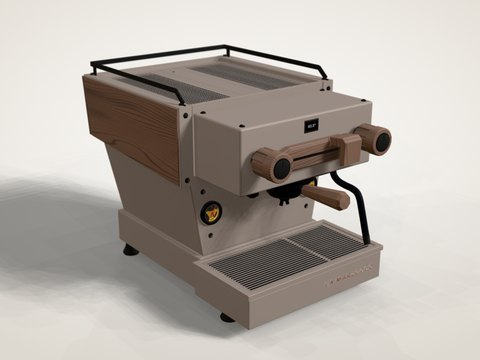
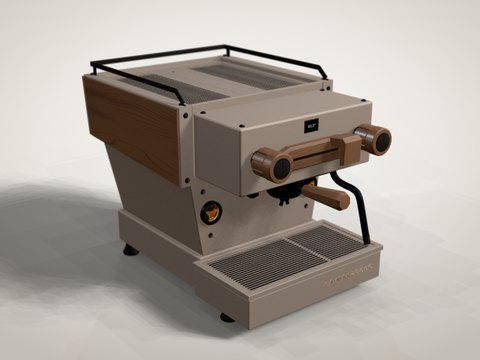
Grafik-Update für alle Geräte live: fotorealistisches Studio als Standard
Das in der Vorschau (?gfx=2) freigegebene Grafik-Update ist jetzt die
Standarddarstellung für alle Maschinen und Mühlen; ?gfx=1 zeigt zum
Vergleich die frühere Darstellung. Vorschaubilder aller 14 Geräte mit
der neuen Grafik neu gerendert, README ergänzt.

Claude-Session: https://claude.ai/code/session_01XVE81muw7HYcqaEMYwBuXM

diff --git a/js/gfx.js b/js/gfx.js
@@ -1,5 +1,5 @@
 // ---------------------------------------------------------------------------
-// Grafik-Stufe: "2" = fotorealistisches Studio-Update (Vorschau über ?gfx=2)
+// Grafik-Stufe: fotorealistisches Studio-Update (Standard; ?gfx=1 zeigt die frühere Darstellung)
 //
 // Bündelt alle Einstellungen des Updates an einer Stelle, damit sie sich
 // gemeinsam ein- und ausschalten lassen: Studio-Umgebung mit Softboxen,
@@ -8,8 +8,8 @@
 // ---------------------------------------------------------------------------
 const params = typeof location !== 'undefined' ? new URLSearchParams(location.search) : new URLSearchParams();
 
-/** true = neues Grafik-Update aktiv */
-export const GFX2 = params.get('gfx') === '2';
+/** true = Grafik-Update aktiv (Standard); ?gfx=1 schaltet auf die frühere Darstellung zurück */
+export const GFX2 = params.get('gfx') !== '1';
 
 /** Einstellungen des Updates */
 export const GFX = {

diff --git a/README.md b/README.md
@@ -188,7 +188,8 @@ js/materials.js     Materialien je Bauteil-Gruppe (Lack, Holz, Metall)
 js/textures.js      Prozedurale Texturen: Pulverlack-Struktur, Metallic-Lack, Gitter, Zifferblätter
 js/wood.js          Prozedurale Holztexturen (Farbe, Relief, Glanz) je Holzart
 js/noise.js         Rauschfunktionen für die Texturen
-js/pipeline.js      Render-Pipeline: progressives Rendering, Tone-Mapping, Bloom
+js/pipeline.js      Render-Pipeline: progressives Rendering, Tone-Mapping, Bloom, Vignette, Filmkorn
+js/gfx.js           Grafik-Stufe und Einstellungen des fotorealistischen Studio-Updates
 js/viewer.js        Renderer, Licht, 360°-Kamera, Auswahl per Klick, Screenshot
 js/ui.js            Konfigurations-Panel
 js/data.js          Farbpaletten, Holzarten, Presets, Bauteil-Gruppen
@@ -203,6 +204,7 @@ vendor/qrcode/      QR-Code-Erzeugung, wird erst bei Bedarf geladen (MIT-Lizenz)
 - **IGP-Farben** sind in `BODY_COLLECTIONS` hinterlegt: `igp('Code', 'Name', '#hex')`. Die Hex-Werte wurden aus Fotos der Farbkarten gemessen und weißabgeglichen. Es sind also Näherungswerte für den Bildschirm, keine Farbmesswerte. Liegen offizielle RGB/Lab-Werte vor, einfach den Hex-Wert ersetzen.
 - **Holzmaserungen** werden über Kennwerte gesteuert (`style`, `light`/`mid`/`dark`, `rings`, `contrast`, `late`, `figure`, `pore`, `streak` …). Für `style` gibt es `ring`, `olive`, `zebra`, `burl` und `solid`.
 - **Darstellung testen**: `?q=high` bzw. `?q=low` in der Adresse erzwingt die fotorealistische bzw. schnelle Darstellung, `&samples=32` setzt die Zahl der gemittelten Bilder.
+- **Grafik**: Standard ist das fotorealistische Studio (Softboxen als Umgebung und Flächenlichter, Lack mit weichem Glanz, geöltes Holz mit Ölfilm, tiefere Verschattung, Schärfentiefe, Vignette, Filmkorn; Einstellungen in `js/gfx.js`). `?gfx=1` zeigt zum Vergleich die frühere Darstellung (Vergleichsbild: `docs/grafik-update-vergleich.jpg`).
 - **AR testen**: `?ar=ios`, `?ar=webxr` oder `?ar=none` erzwingt am Rechner den jeweiligen Ablauf des AR-Dialogs. Für AR werden die Materialien vereinfacht (Farbe, Metall, Rauheit, Klarlack, Holzmaserung; ohne Feinstruktur) und das Glas der Manometer weggelassen.
 - **Geometrie**: Alle Maße stehen in Millimetern in `js/model.js` (Konstante `M` und die einzelnen Bauteil-Abschnitte).
 
